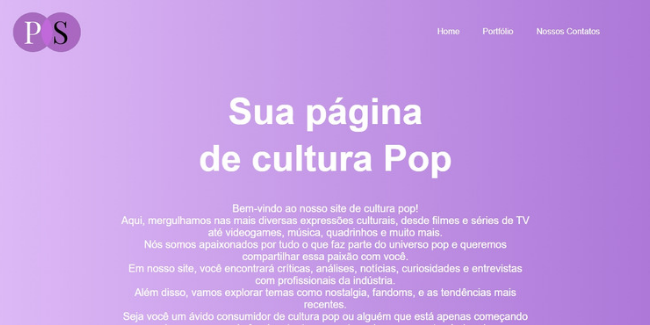
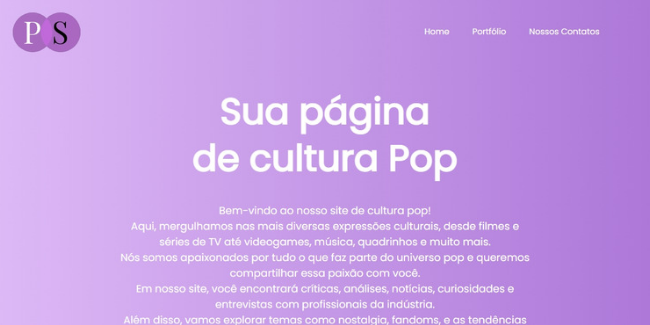
20-04-2023: Alterações no Portfólio e Adição da fonte na Homepage

diff --git a/atividade-concluidas/atividade-portfolio/index.html b/atividade-concluidas/atividade-portfolio/index.html
@@ -11,7 +11,7 @@
     <link rel="icon" type="image/png" sizes="16x16" href="images/favicon-16x16.png">
     <script src="trocaFoto.js"></script>
     <link rel="manifest" href="images/site.webmanifest">
-    <title>Portfólio</title>
+    <title>PS - Portfólio</title>
 </head>
 <body>
 
@@ -130,7 +130,7 @@
             </div>
             <div class="projeto-text">
                 <h3>Homepage</h3>
-                <p>Lorem ipsum dolor sit amet consectetur adipisicing elit. Cumque quis, quibusdam illum, exercitationem cupiditate quia, delectus sed eaque est corrupti mollitia sint vero ullam. Facere vero incidunt deserunt architecto nam?</p>
+                <p>Esta é a nossa página principal, onde os usuários têm o primeiro contato com a nossa marca.</p>
             </div>
         </div>
         <div class="projeto-container">
@@ -141,7 +141,7 @@
             </div>
             <div class="projeto-text">
                 <h3>Landingpage</h3>
-                <p>Lorem ipsum dolor sit amet consectetur adipisicing elit. Cumque quis, quibusdam illum, exercitationem cupiditate quia, delectus sed eaque est corrupti mollitia sint vero ullam. Facere vero incidunt deserunt architecto nam?</p>
+                <p>Quer saber um pouco mais sobre nós? Acesse aqui para obter mais informações sobre o nosso <i>Web Site</i>.</p>
             </div>
         </div>
         <div class="projeto-container">
@@ -163,7 +163,7 @@
             </div>
             <div class="projeto-text">
                 <h3>Página de Login</h3>
-                <p>Lorem ipsum dolor sit amet consectetur adipisicing elit. Cumque quis, quibusdam illum, exercitationem cupiditate quia, delectus sed eaque est corrupti mollitia sint vero ullam. Facere vero incidunt deserunt architecto nam?</p>
+                <p>Já está inscrito no nosso site, mas não sabe onde acessar nossos conteúdos? Faça login na sua conta PS aqui, para ter acesso aos assuntos mais recentes!</p>
             </div>
         </div>
         <div class="projeto-container">
@@ -174,7 +174,7 @@
             </div>
             <div class="projeto-text">
                 <h3>Formulário de Cadastro</h3>
-                <p>Lorem ipsum dolor sit amet consectetur adipisicing elit. Cumque quis, quibusdam illum, exercitationem cupiditate quia, delectus sed eaque est corrupti mollitia sint vero ullam. Facere vero incidunt deserunt architecto nam?</p>
+                <p>Quer ter acesso aos nossos conteúdos, mas não está registrado no nosso site? Então não perca mais tempo e faça seu cadastro agora mesmo!</p>
             </div>
         </div>
         <div class="projeto-container">
@@ -185,7 +185,7 @@
             </div>
             <div class="projeto-text">
                 <h3>Quiz Musical</h3>
-                <p>Lorem ipsum dolor sit amet consectetur adipisicing elit. Cumque quis, quibusdam illum, exercitationem cupiditate quia, delectus sed eaque est corrupti mollitia sint vero ullam. Facere vero incidunt deserunt architecto nam?</p>
+                <p>Que tal testar seus conhecimentos de trilha sonora dos jogos mais conhecidos mundialmente? Venha jogar o nosso Quiz Musical para saber quais jogos você reconhece apenas pela música deles!</p>
             </div>
         </div>
         <div class="projeto-container">
@@ -196,7 +196,7 @@
             </div>
             <div class="projeto-text">
                 <h3>Galeria de Fotos</h3>
-                <p>Lorem ipsum dolor sit amet consectetur adipisicing elit. Cumque quis, quibusdam illum, exercitationem cupiditate quia, delectus sed eaque est corrupti mollitia sint vero ullam. Facere vero incidunt deserunt architecto nam?</p>
+                <p>Na nossa galeria de fotos, você poderá visualizar imagens de filmes e séries que possuem a paleta de cores da nossa empresa!</p>
             </div>
         </div>
         <div class="projeto-container">
@@ -207,7 +207,7 @@
             </div>
             <div class="projeto-text">
                 <h3>Portfólio</h3>
-                <p>Lorem ipsum dolor sit amet consectetur adipisicing elit. Cumque quis, quibusdam illum, exercitationem cupiditate quia, delectus sed eaque est corrupti mollitia sint vero ullam. Facere vero incidunt deserunt architecto nam?</p>
+                <p>Aqui, nós apresentamos nossos desenvolvedores, responsáveis em desenvolver as páginas do nosso <i>Web Site</i>. Você também pode visualizar os projetos já realizados pela equipe e utilizá-los.</p>
             </div>
         </div>
     </div>

diff --git a/atividades-andamento/atividade-homepage/style.css b/atividades-andamento/atividade-homepage/style.css
@@ -1,3 +1,4 @@
+@import url('https://fonts.googleapis.com/css2?family=Poppins:ital,wght@0,100;0,200;0,400;1,100;1,200;1,400&display=swap');
 *{
     margin: 0;
     padding: 0;
